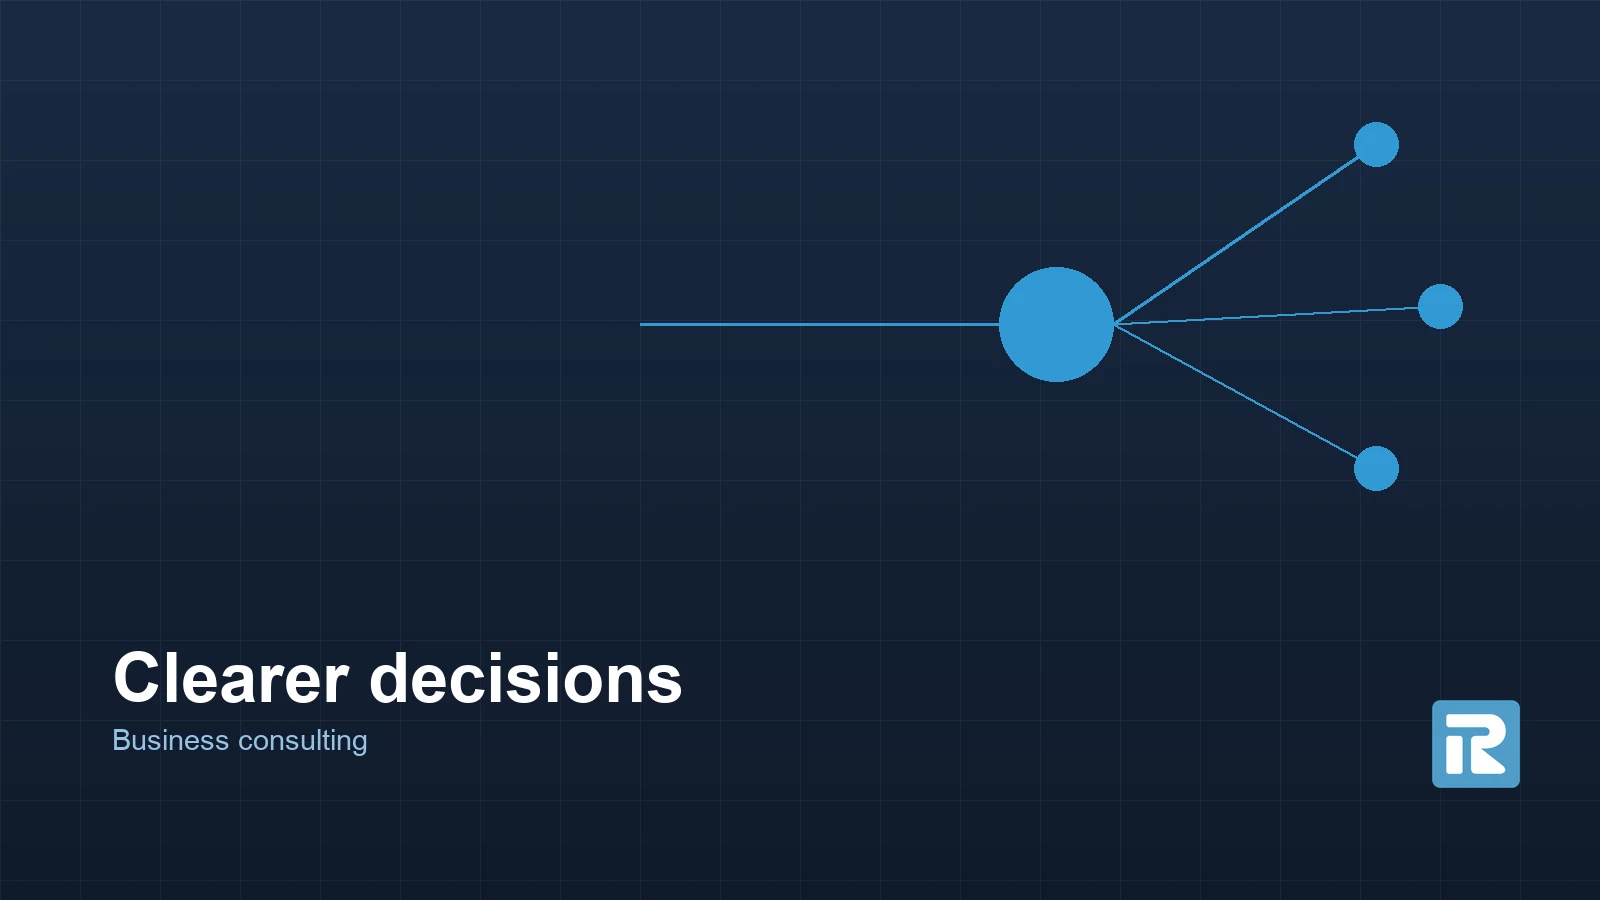
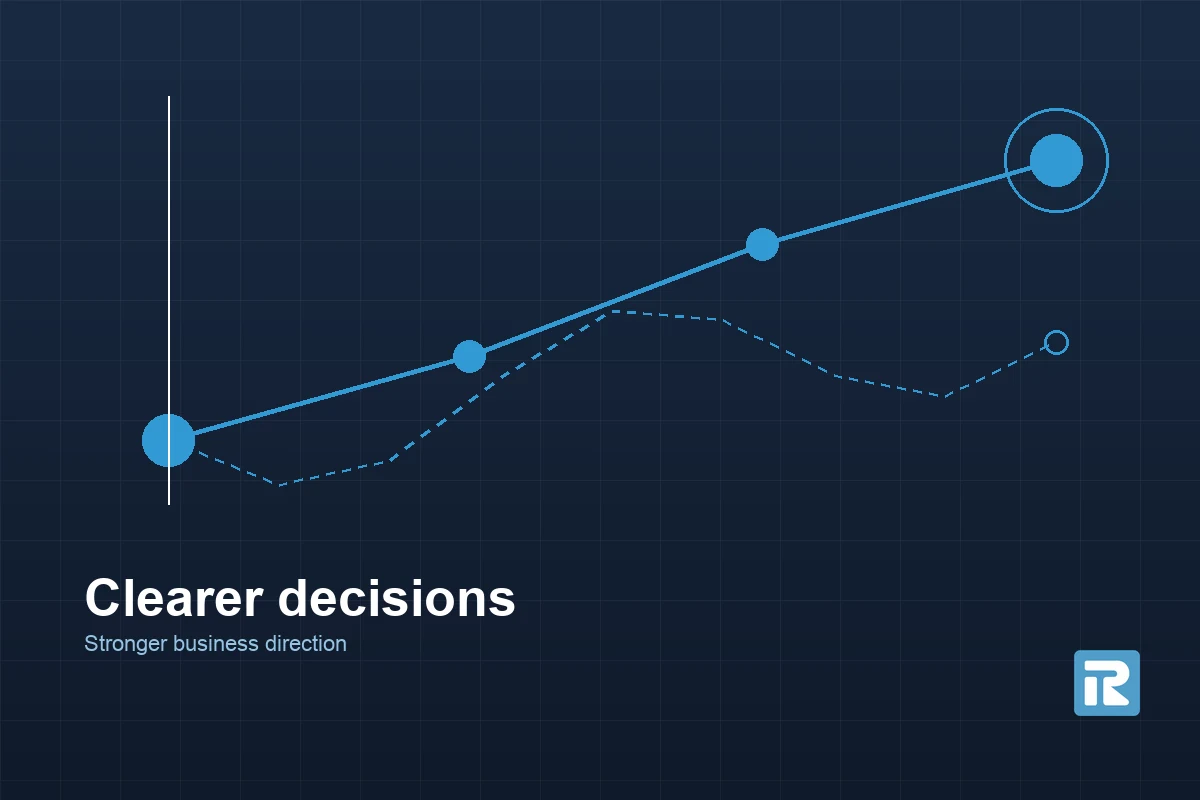
Redraw the consulting panel, and stop it being cropped
Two faults in the image on "Clearer Decisions. Stronger Business
Direction."

It was drawn at 16:9 and rendered into a 3:2 box, so object-cover took a
slice out of the width: the caption was cut off at the left edge and the
brand mark at the right, on both the homepage and the consulting pillar.
It is now drawn at 3:2, the ratio both places use, so nothing is cut.

The composition also repeated the hub and spokes motif the Gujarat panel
already uses. It now draws what the heading actually claims: one
considered route climbing through three waypoints, and the wandering
dotted route that ends lower, parting at a marked decision.

diff --git a/scripts/gen-panels.py b/scripts/gen-panels.py
@@ -47,17 +47,49 @@ def office(w=1600,h=900):
     d.line([(int(w*0.07),by+bh),(bx+bw,by+bh)],fill=(*BLUE,120),width=3)
     return label(im,"Vadodara, Gujarat","Raulji Group")
 
-# 2. Consulting: a decision splitting into structures.
-def consulting(w=1600,h=900):
+# 2. Consulting: two routes from the same starting point. The wandering one is
+# what happens without advice; the direct one is what the section is selling.
+# Deliberately not another hub and spokes, which the Gujarat panel already uses.
+def consulting(w=1200,h=800):
+    import math
     im=base(w,h); d=ImageDraw.Draw(im)
-    cx,cy=int(w*0.66),int(h*0.36); r=int(w/28)
-    ends=[(int(w*0.86),int(h*0.16)),(int(w*0.90),int(h*0.34)),(int(w*0.86),int(h*0.52))]
-    for i,(ex,ey) in enumerate(ends):
-        d.line([(cx+r,cy),(ex,ey)],fill=(*BLUE,110 if i else 220),width=3)
-        rr=int(w/70); d.ellipse([ex-rr,ey-rr,ex+rr,ey+rr],fill=(*BLUE,230 if i==0 else 90))
-    d.ellipse([cx-r,cy-r,cx+r,cy+r],fill=(*BLUE,255))
-    d.line([(int(w*0.40),cy),(cx-r,cy)],fill=(*BLUE,150),width=3)
-    return label(im,"Clearer decisions","Business consulting")
+    x0,y0=int(w*0.14),int(h*0.55)
+    x1,y1=int(w*0.88),int(h*0.20)
+
+    # the wandering route: dotted, drifting, arriving late and low
+    pts=[(x0,y0)]
+    for i in range(1,9):
+        t=i/8
+        px=x0+(x1-x0)*t
+        py=y0-(y0-y1)*t*0.45 + int(math.sin(t*9.0)*h*0.085)
+        pts.append((px,py))
+    for i in range(len(pts)-1):
+        ax,ay=pts[i]; bx,by=pts[i+1]
+        steps=14
+        for k in range(steps):
+            if k%2: continue
+            fx=ax+(bx-ax)*k/steps; fy=ay+(by-ay)*k/steps
+            gx=ax+(bx-ax)*(k+1)/steps; gy=ay+(by-ay)*(k+1)/steps
+            d.line([(fx,fy),(gx,gy)],fill=(*BLUE,70),width=3)
+    ex,ey=pts[-1]; rr=int(w/95)
+    d.ellipse([ex-rr,ey-rr,ex+rr,ey+rr],outline=(*BLUE,110),width=3)
+
+    # the considered route: one clean rise through three waypoints
+    way=[(x0,y0),
+         (int(x0+(x1-x0)*0.34), int(y0-(y0-y1)*0.30)),
+         (int(x0+(x1-x0)*0.67), int(y0-(y0-y1)*0.70)),
+         (x1,y1)]
+    for i in range(len(way)-1):
+        d.line([way[i],way[i+1]],fill=(*BLUE,235),width=5)
+    for i,(px,py) in enumerate(way):
+        r=int(w/46) if i in (0,len(way)-1) else int(w/74)
+        d.ellipse([px-r,py-r,px+r,py+r],fill=(*BLUE,255))
+        if i==len(way)-1:
+            d.ellipse([px-r*2,py-r*2,px+r*2,py+r*2],outline=(*BLUE,90),width=3)
+
+    # the decision itself, marked where the two routes part
+    d.line([(x0,int(h*0.12)),(x0,int(h*0.63))],fill=(255,255,255,26),width=2)
+    return label(im,"Clearer decisions","Stronger business direction")
 
 # 3. Registration / documents: stacked sheets with a seal.
 def documents(w=1200,h=800,title="Filed correctly",sub="Company registration"):
@@ -123,8 +155,8 @@ def enquiry(w=1200,h=800):
     d.rounded_rectangle([bx2,by2,bx2+int(fw*0.44),by2+int(h*0.06)],radius=int(h*0.015),fill=(*BLUE,255))
     return label(im,"Tell us what you are building","Get business guidance")
 
-save(office(1600,686),"raulji-group-office")
-save(consulting(),"raulji-group-business-consulting")
+save(office(1200,900),"raulji-group-office")
+save(consulting(1200,800),"raulji-group-business-consulting")
 save(documents(1600,686,title="Filed correctly",sub="Company registration"),"raulji-group-company-registration")
 save(documents(title="Documents in order",sub="What registration needs"),"raulji-group-documents")
 save(meeting(),"raulji-group-client-meeting")
